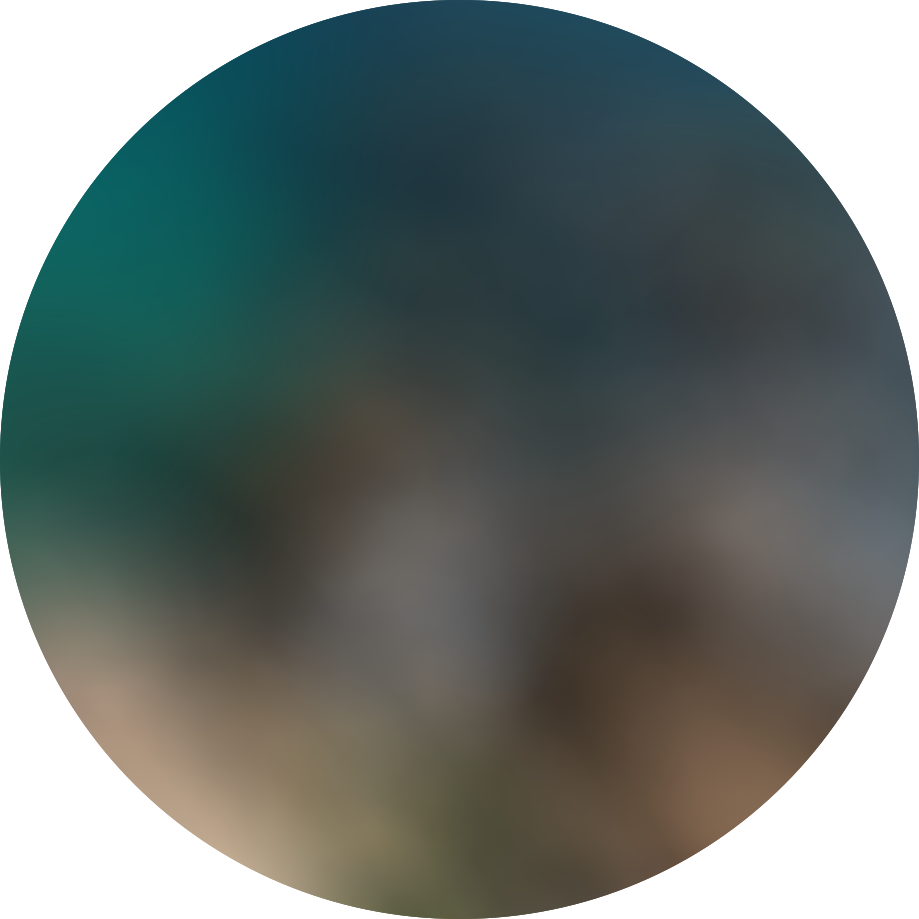
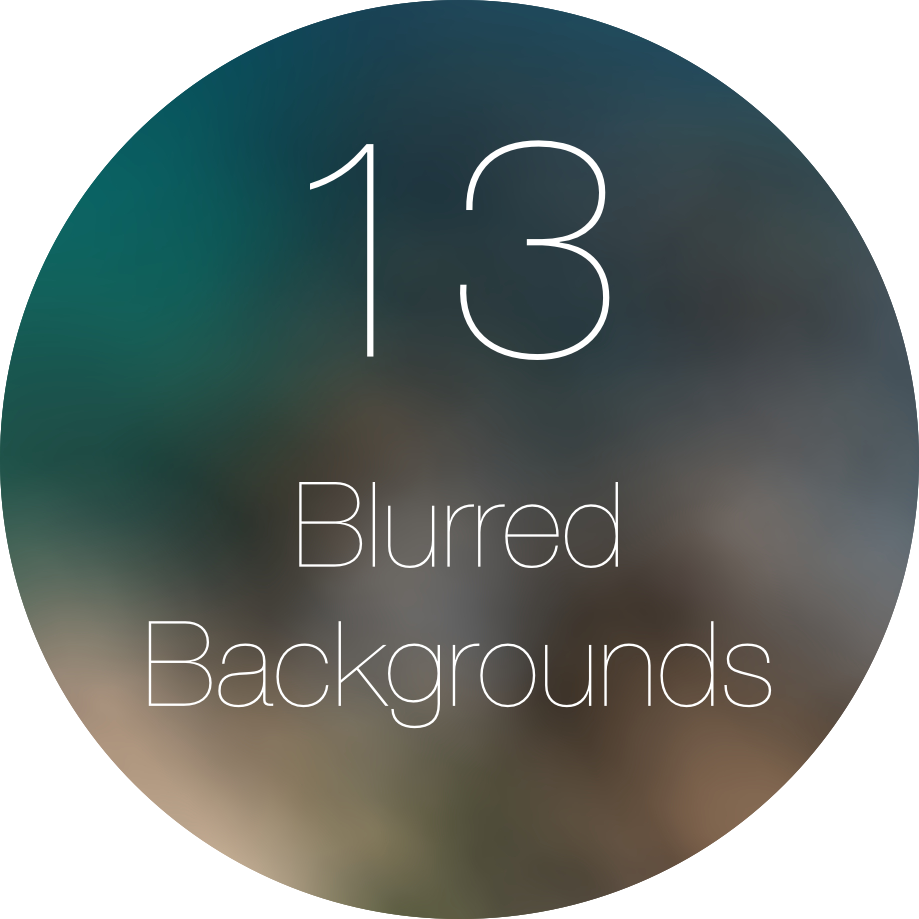
Pseudo-Parallex
+ New background image

diff --git a/stylesheet.css b/stylesheet.css
@@ -8,7 +8,8 @@ body{
 	height:600px; 
 	width: 100%;
 	/* background-image: url(http://www.stgm-melk.at/home/stone.jpg); */
-	background-image:  url(gras.jpg); 
+	background:  url(blur.jpg) center center no-repeat fixed; 
+
 }
 
 

diff --git a/mobile.css b/mobile.css
@@ -6,7 +6,8 @@ body{
 
 #landing{
 	/* background-image: url(http://www.stgm-melk.at/home/stone.jpg); */
-	background-image:  url(gras.jpg); 
+	background-image:  url(blur.jpg); 
+	background-position: center center;
 }
 
 
